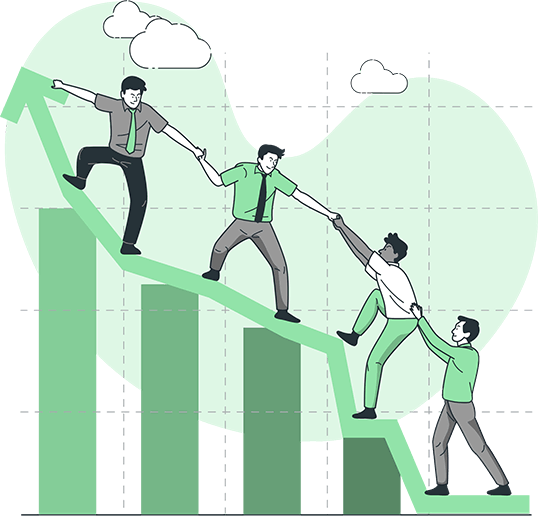
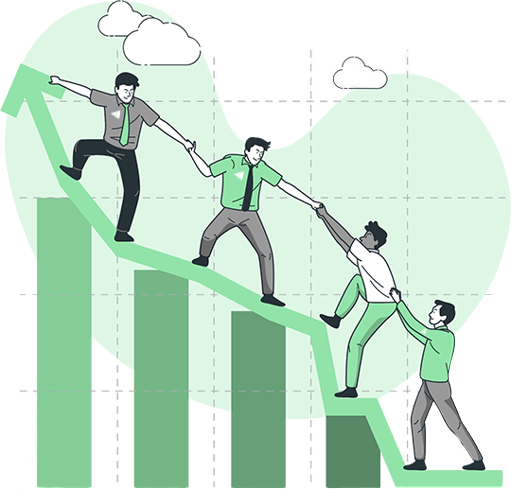
photos changes with brand on it

diff --git a/src/containers/home/about/index.jsx b/src/containers/home/about/index.jsx
@@ -61,7 +61,7 @@ const HomeAboutContainer = () => {
                         >
                             <div data-depth="0.2">
                                 <img
-                                    src={`${process.env.PUBLIC_URL}/images/about/1.png`}
+                                    src={`${process.env.PUBLIC_URL}/images/about/11.png`}
                                     alt="about"
                                 />
                             </div>
